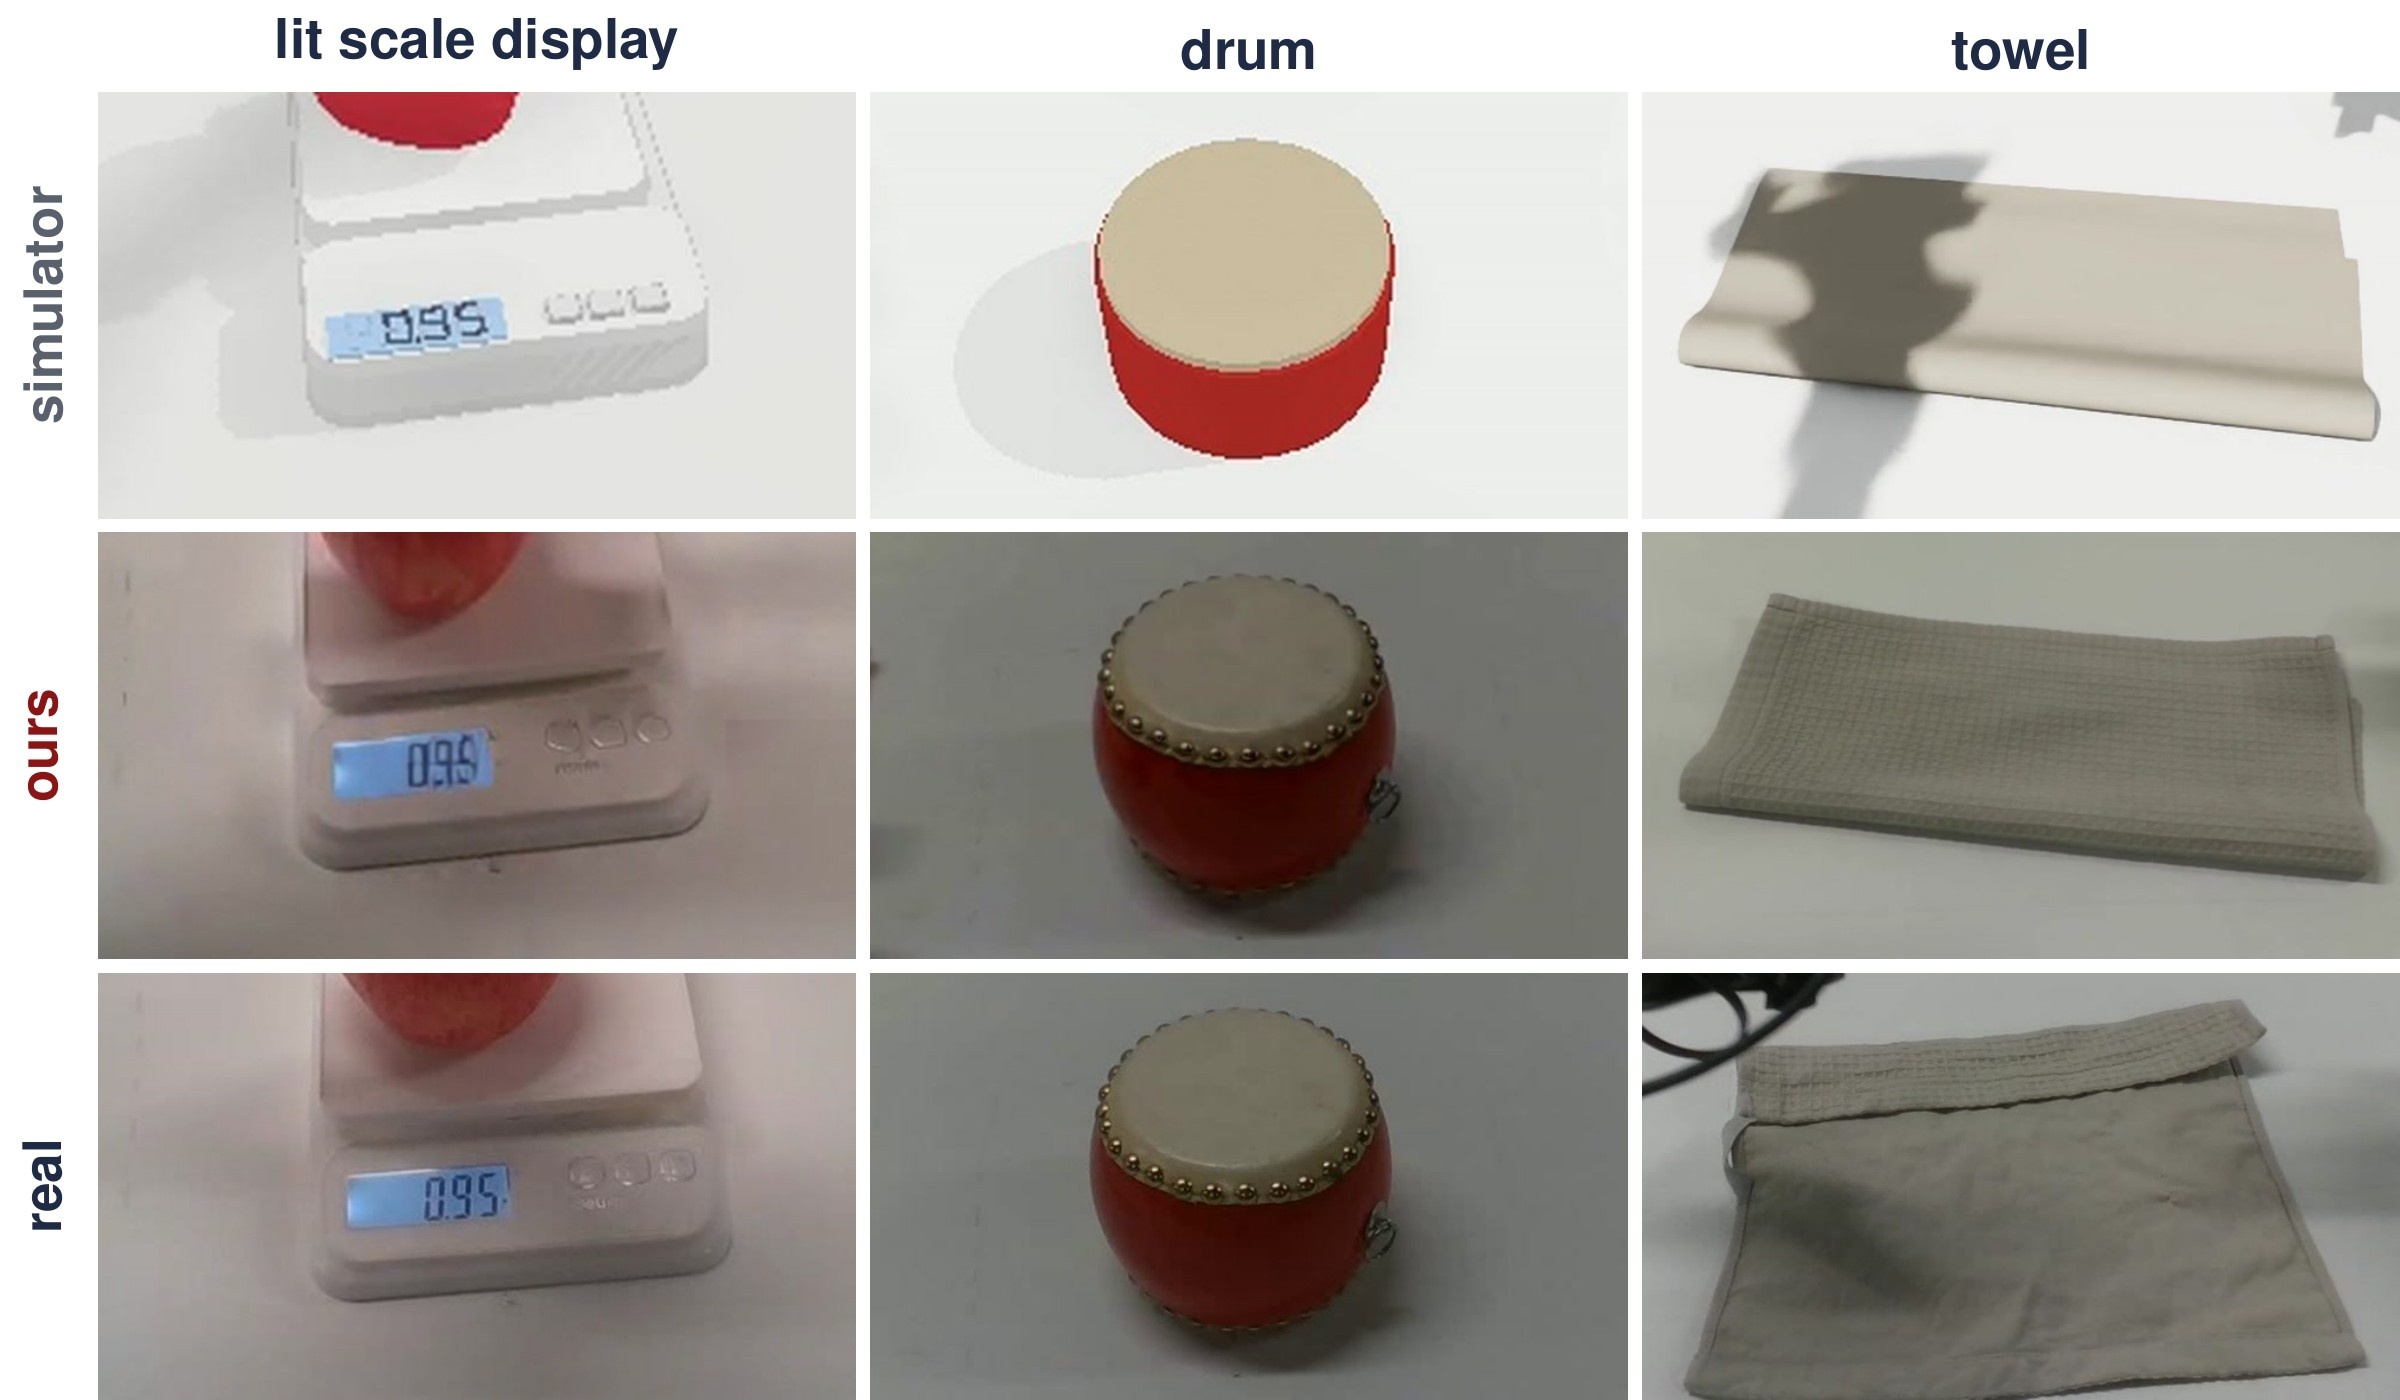
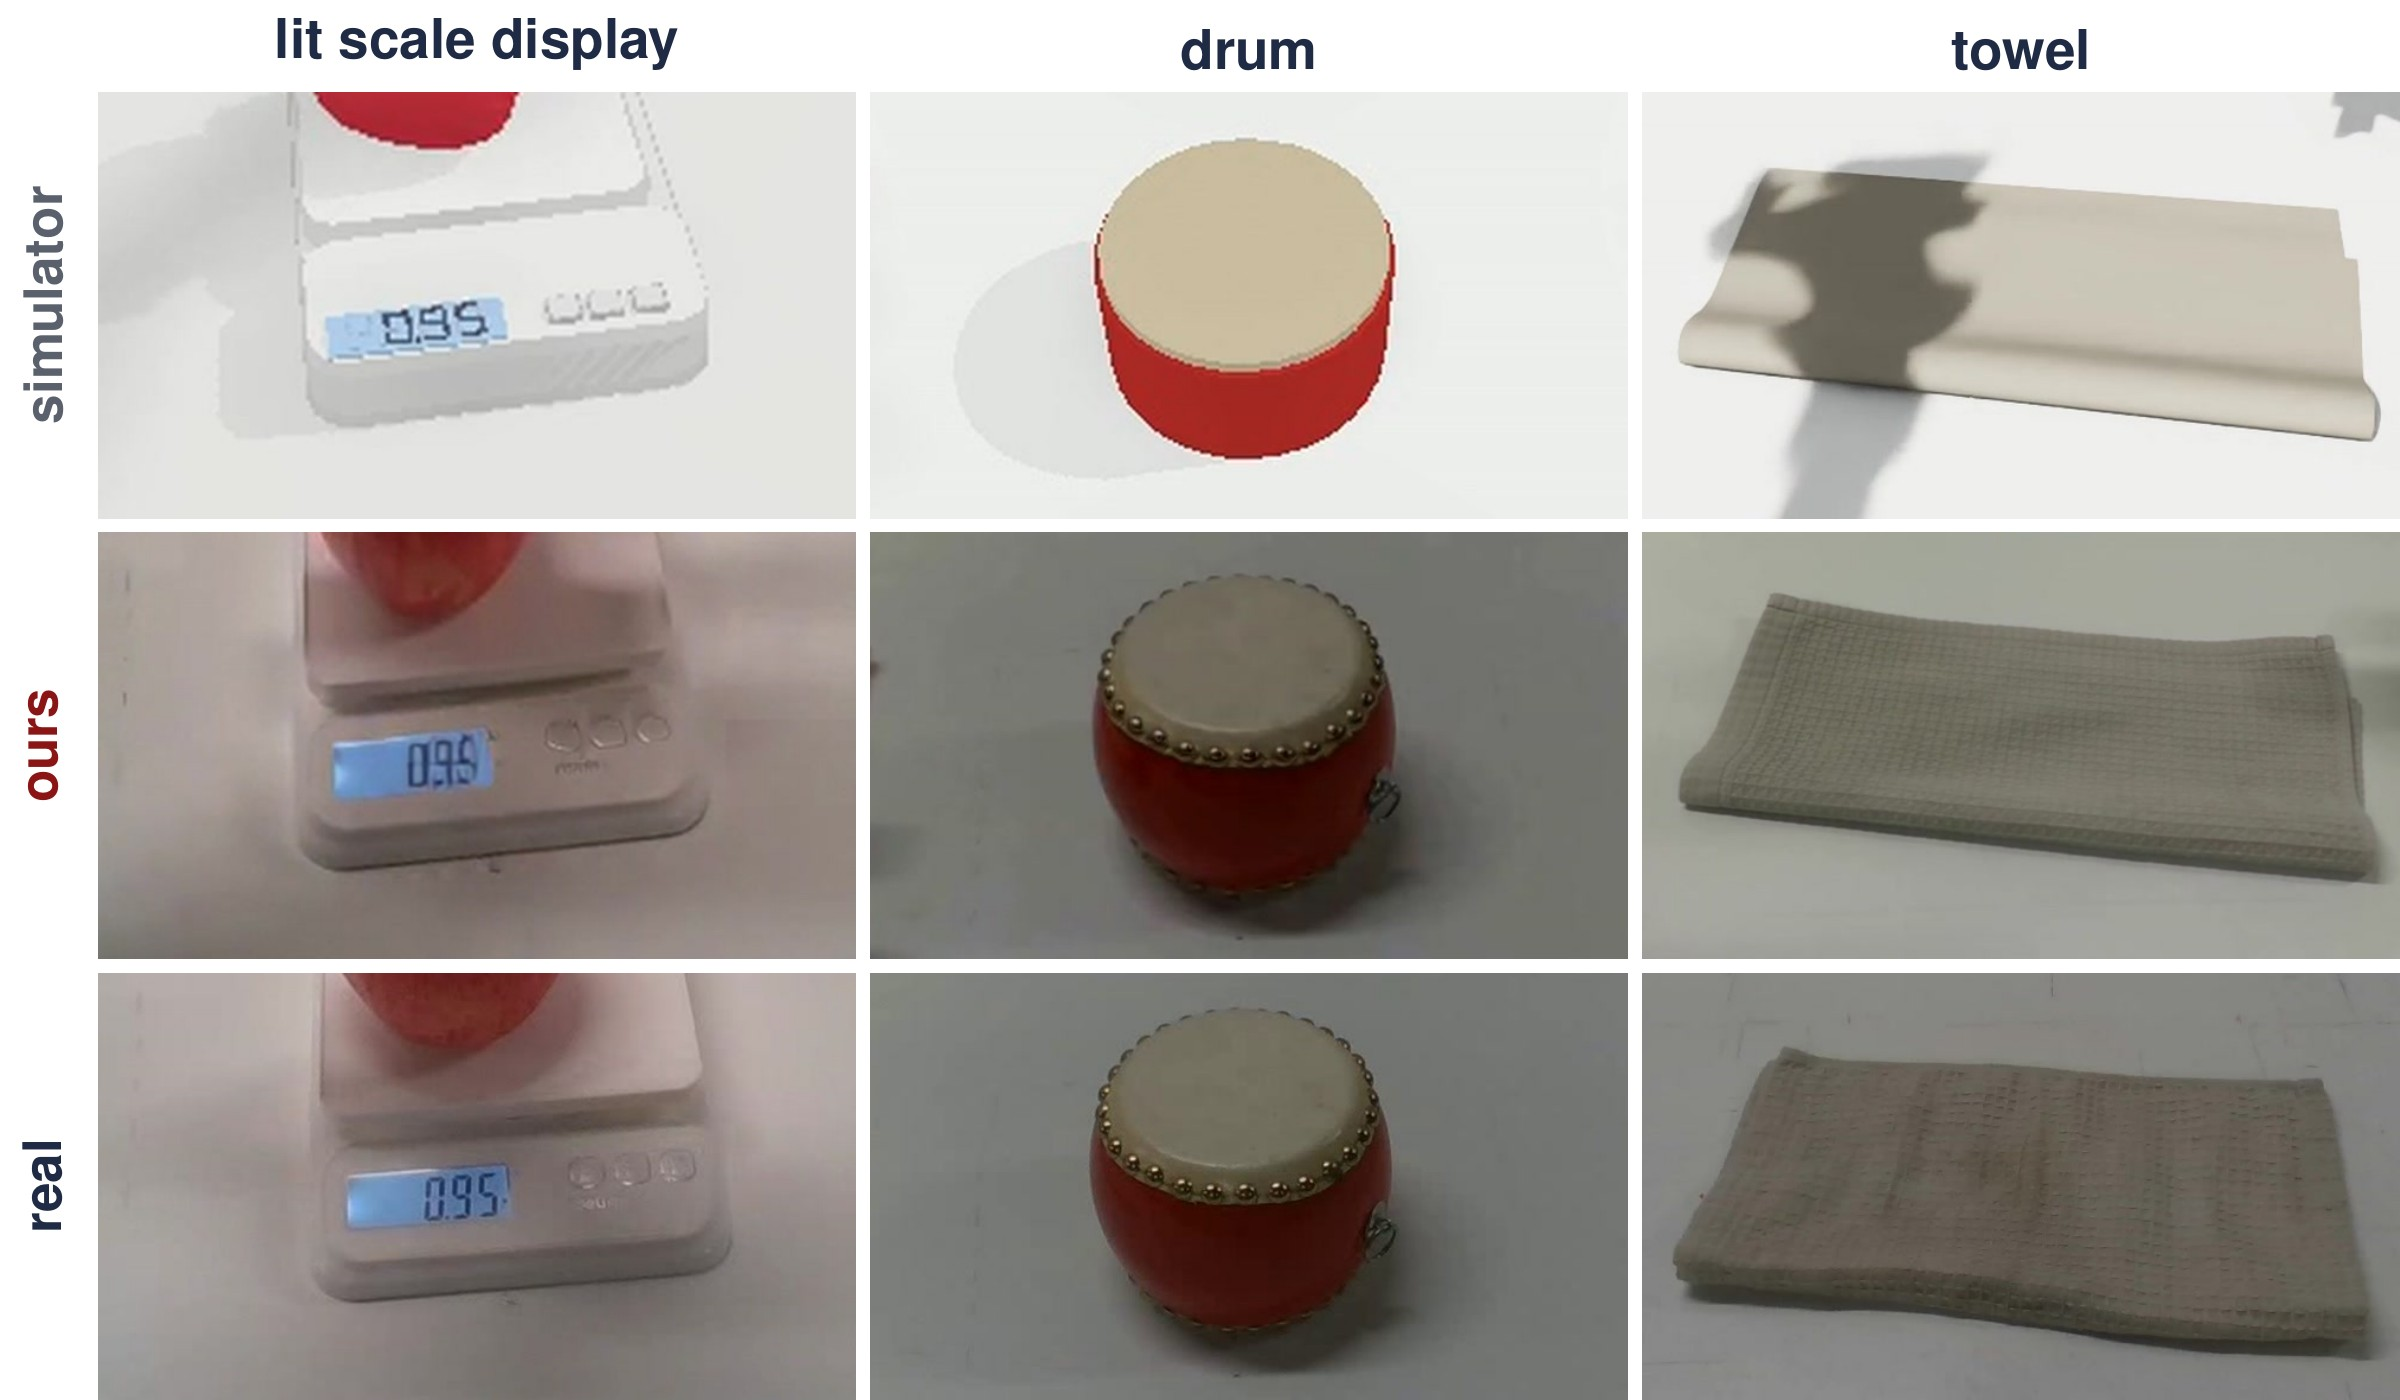
Towel close-up: real camera tile from the Figure 9 photo (r2s2v-paper c0b7eec)

Changed region(s): [[0.6562, 0.6757, 1.0, 1.0]]

diff --git a/index.html b/index.html
@@ -244,7 +244,7 @@
         <div class="cu ours" style="--s:3.2;--tx:-31.25%;--ty:-52.08%"><img src="static/demo/q_scale_ours.jpg" alt="DataFarm: lit scale display" loading="lazy"><span class="chip red">DataFarm</span></div>
         <div class="cu-label">Towel</div>
         <div class="cu" style="--s:2.2857;--tx:-31.64%;--ty:-24.31%"><img src="static/demo/q_towel_sim.jpg" alt="Simulator: smooth particle cloth" loading="lazy"><span class="chip">Simulator</span></div>
-        <div class="cu" style="--s:1.7778;--tx:-26.56%;--ty:-36.11%"><img src="static/demo/q_towel_real.jpg" alt="Real camera: towel weave" loading="lazy"><span class="chip">Real camera</span></div>
+        <div class="cu" style="--s:2;--tx:-25.78%;--ty:-33.33%"><img src="static/demo/q_towel_real.jpg" alt="Real camera: towel weave" loading="lazy"><span class="chip">Real camera</span></div>
         <div class="cu ours" style="--s:2.2857;--tx:-31.64%;--ty:-24.31%"><img src="static/demo/q_towel_ours.jpg" alt="DataFarm: towel weave" loading="lazy"><span class="chip red">DataFarm</span></div>
       </div>
       <p class="fine rv">Real frames come from a recording at the same task phase, not the same frame.</p>
